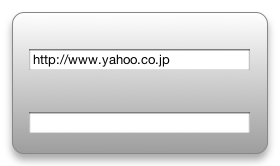
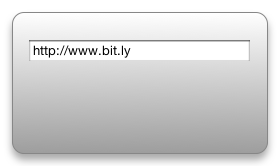
some fixes (JP: 少し修正)

Changed region(s): [[0.0857, 0.241, 0.9143, 0.4217], [0.0857, 0.6627, 0.9143, 0.8133]]

diff --git a/bitly_converter.dcproj/project.wdgt/main.html b/bitly_converter.dcproj/project.wdgt/main.html
@@ -19,9 +19,11 @@
         <img id="frontImg" src="Images/front.png" alt="" apple-locked="true" apple-part="com.apple.Dashcode.part.frontimage" apple-style="image-theme: 1; image-shape: 3; image-opacity: 1.00; image-top-color: 1.0000,1.0000,1.0000; image-bottom-color: 0.6154,0.6154,0.6154; image-radius: 12,12,12,12; image-border: 1; image-border-color: 0.5294,0.5294,0.5294; image-border-width: 1; shine-strength: 0.9; shine-alpha-level: 0.67; shine-height: 0.50; glass-arc-height: 0.06; shadow-include-shadow: 1; shadow-blur: 9.00; shadow-offset: -1.00,-6.00; shadow-color: 0.0000,0.0000,0.0000,0.3333;">
         <div class="apple-no-children" id="info" apple-part="com.apple.Dashcode.part.infobutton" apple-default-image-visibility="hidden"></div>
         <div apple-part="com.apple.Dashcode.part.text" class="apple-text apple-no-children" id="helloText" apple-group="text" apple-default-image-visibility="hidden" apple-style="part-height-dependent: true;"></div>
-        <input type="text" name="" value="http://www.yahoo.co.jp" class="apple-textfield apple-no-children" apple-part="com.apple.Dashcode.part.textfield" id="intxt">
-        <input type="text" name="" value="" class="apple-textfield apple-no-children" apple-part="com.apple.Dashcode.part.textfield" id="outtxt">
+        <input type="text" name="" value="http://www.bit.ly" class="apple-textfield apple-no-children" apple-part="com.apple.Dashcode.part.textfield" id="intxt">
         <div apple-part="com.apple.Dashcode.part.glassbutton" class="apple-no-children" id="glassbutton"></div>
+        <div apple-part="com.apple.Dashcode.part.glassbutton" class="apple-no-children" id="clearbtn"></div>
+        <div apple-part="com.apple.Dashcode.part.glassbutton" class="apple-no-children" id="copybtn"></div>
+        <div apple-part="com.apple.Dashcode.part.text" class="apple-text apple-no-children" apple-default-image-visibility="hidden" apple-text-overflow="ellipsis" id="outtxt" apple-style="part-width-dependent: true;part-height-dependent: true;"></div>
     </div>
     <div id="back">
         <img id="backImg" src="Images/back.png" alt="" apple-locked="true" apple-part="com.apple.Dashcode.part.backimage" apple-style=" image-radius: 12,12,12,12; image-border: 1; image-border-color: 0.1500,0.1500,0.1500; image-border-width: 3; shadow-include-shadow: 1; shadow-blur: 9.00; shadow-offset: -1.00,-6.00; shadow-color: 0.0000,0.0000,0.0000,0.3333;">

diff --git a/bitly_converter.dcproj/project.wdgt/main.css b/bitly_converter.dcproj/project.wdgt/main.css
@@ -14,8 +14,8 @@ body {
     top: 0px;
     left: 0px;
     right: 0px;
-    width: auto;
     bottom: 0px;
+    width: auto;
     height: auto;
 }
 
@@ -37,8 +37,8 @@ body {
     top: 0px;
     left: 0px;
     right: 0px;
-    width: auto;
     bottom: 0px;
+    width: auto;
     height: auto;
 }
 
@@ -55,8 +55,8 @@ body {
     color: black;
     font-family: HelveticaNeue-Bold;
     font-size: 11pt;
-    top: 23px;
     width: 130px;
+    top: 17px;
     right: 121px;
     margin-left: auto;
     left: 29px;
@@ -69,8 +69,8 @@ body {
     right: auto;
     bottom: auto;
     margin-top: 0px;
-    top: 78px;
     left: 112px;
+    top: 63px;
 }
 
 #intxt {
@@ -79,18 +79,8 @@ body {
     font-family: HelveticaNeue;
     font-size: 10pt;
     width: 215px;
-    top: 47px;
     left: 29px;
-}
-
-#outtxt {
-    position: absolute;
-    color: black;
-    font-family: HelveticaNeue;
-    font-size: 10pt;
-    left: 29px;
-    width: 215px;
-    top: 110px;
+    top: 38px;
 }
 
 #credit_texxt {
@@ -107,4 +97,36 @@ body {
     bottom: 60px;
     height: auto;
     color: rgb(255, 255, 255);
+}
+
+#copybtn {
+    position: absolute;
+    right: auto;
+    bottom: auto;
+    margin-top: 0px;
+    left: 112px;
+    top: 117px;
+}
+
+#outtxt {
+    color: black;
+    font-family: HelveticaNeue;
+    font-size: 10pt;
+    text-overflow: ellipsis;
+    overflow: hidden;
+    position: absolute;
+    margin-top: 0px;
+    left: 29px;
+    top: 94px;
+    width: auto;
+    height: auto;
+}
+
+#clearbtn {
+    position: absolute;
+    right: auto;
+    bottom: auto;
+    margin-top: 0px;
+    top: 63px;
+    left: 183px;
 }

diff --git a/bitly_converter.wdgt/main.css b/bitly_converter.wdgt/main.css
@@ -14,8 +14,8 @@ body {
     top: 0px;
     left: 0px;
     right: 0px;
-    width: auto;
     bottom: 0px;
+    width: auto;
     height: auto;
 }
 
@@ -37,8 +37,8 @@ body {
     top: 0px;
     left: 0px;
     right: 0px;
-    width: auto;
     bottom: 0px;
+    width: auto;
     height: auto;
 }
 
@@ -55,8 +55,8 @@ body {
     color: black;
     font-family: HelveticaNeue-Bold;
     font-size: 11pt;
-    top: 23px;
     width: 130px;
+    top: 17px;
     right: 121px;
     margin-left: auto;
     left: 29px;
@@ -69,8 +69,8 @@ body {
     right: auto;
     bottom: auto;
     margin-top: 0px;
-    top: 78px;
     left: 112px;
+    top: 63px;
 }
 
 #intxt {
@@ -79,18 +79,8 @@ body {
     font-family: HelveticaNeue;
     font-size: 10pt;
     width: 215px;
-    top: 47px;
     left: 29px;
-}
-
-#outtxt {
-    position: absolute;
-    color: black;
-    font-family: HelveticaNeue;
-    font-size: 10pt;
-    left: 29px;
-    width: 215px;
-    top: 110px;
+    top: 38px;
 }
 
 #credit_texxt {
@@ -107,4 +97,36 @@ body {
     bottom: 60px;
     height: auto;
     color: rgb(255, 255, 255);
+}
+
+#copybtn {
+    position: absolute;
+    right: auto;
+    bottom: auto;
+    margin-top: 0px;
+    left: 112px;
+    top: 117px;
+}
+
+#outtxt {
+    color: black;
+    font-family: HelveticaNeue;
+    font-size: 10pt;
+    text-overflow: ellipsis;
+    overflow: hidden;
+    position: absolute;
+    margin-top: 0px;
+    left: 29px;
+    top: 94px;
+    width: auto;
+    height: auto;
+}
+
+#clearbtn {
+    position: absolute;
+    right: auto;
+    bottom: auto;
+    margin-top: 0px;
+    top: 63px;
+    left: 183px;
 }

diff --git a/bitly_converter.dcproj/project.wdgt/Parts/setup.js b/bitly_converter.dcproj/project.wdgt/Parts/setup.js
@@ -5,9 +5,12 @@
  code generator otherwise the changes will be lost.
  */
 var dashcodePartSpecs = {
+    "clearbtn": { "creationFunction": "CreateGlassButton", "onclick": "cleartxt", "text": "clear" },
+    "copybtn": { "creationFunction": "CreateGlassButton", "onclick": "copy", "text": "Copy" },
     "credit_texxt": { "creationFunction": "CreateText", "text": "credit" },
     "done": { "creationFunction": "CreateGlassButton", "onclick": "showFront", "text": "完了" },
     "glassbutton": { "creationFunction": "CreateGlassButton", "onclick": "convert", "text": "convert" },
     "helloText": { "creationFunction": "CreateText", "text": "title_text" },
-    "info": { "backgroundStyle": "black", "creationFunction": "CreateInfoButton", "foregroundStyle": "white", "frontID": "front", "onclick": "showBack" }
+    "info": { "backgroundStyle": "black", "creationFunction": "CreateInfoButton", "foregroundStyle": "white", "frontID": "front", "onclick": "showBack" },
+    "outtxt": { "creationFunction": "CreateText", "text": "outtxt_text" }
 };

diff --git a/bitly_converter.wdgt/Parts/setup.js b/bitly_converter.wdgt/Parts/setup.js
@@ -5,9 +5,12 @@
  code generator otherwise the changes will be lost.
  */
 var dashcodePartSpecs = {
+    "clearbtn": { "creationFunction": "CreateGlassButton", "onclick": "cleartxt", "text": "clear" },
+    "copybtn": { "creationFunction": "CreateGlassButton", "onclick": "copy", "text": "Copy" },
     "credit_texxt": { "creationFunction": "CreateText", "text": "credit" },
     "done": { "creationFunction": "CreateGlassButton", "onclick": "showFront", "text": "完了" },
     "glassbutton": { "creationFunction": "CreateGlassButton", "onclick": "convert", "text": "convert" },
     "helloText": { "creationFunction": "CreateText", "text": "title_text" },
-    "info": { "backgroundStyle": "black", "creationFunction": "CreateInfoButton", "foregroundStyle": "white", "frontID": "front", "onclick": "showBack" }
+    "info": { "backgroundStyle": "black", "creationFunction": "CreateInfoButton", "foregroundStyle": "white", "frontID": "front", "onclick": "showBack" },
+    "outtxt": { "creationFunction": "CreateText", "text": "outtxt_text" }
 };

diff --git a/bitly_converter.dcproj/project.wdgt/main.js b/bitly_converter.dcproj/project.wdgt/main.js
@@ -11,6 +11,7 @@
 function load()
 {
     dashcode.setupParts();
+    outtxt.innerText = '';
 }
 
 //
@@ -125,10 +126,10 @@ function convert(event)
 function myOnLoad(req)
 {
     var resUrl = '';
+    var outeku;
     if(req.status == 200)
     {
         var obj = eval('(' + req.responseText + ')');
-        alert(obj);
         for(var item in obj.results)
         {
             if(!obj.results[item].errorCode){
@@ -137,6 +138,20 @@ function myOnLoad(req)
                 resUrl = 'error!!';
             }
         }
-        outtxt.value = resUrl;
+        outeku = outtxt;
+        outtxt.innerText = resUrl;
     }
+}
+
+function copy(event)
+{
+    if (window.widget){
+      widget.system("/bin/echo -n '"+outtxt.innerText+"' | /usr/bin/pbcopy", null);
+    }
+}
+
+
+function cleartxt(event)
+{
+    intxt.value = '';
 }

diff --git a/bitly_converter.wdgt/main.js b/bitly_converter.wdgt/main.js
@@ -11,6 +11,7 @@
 function load()
 {
     dashcode.setupParts();
+    outtxt.innerText = '';
 }
 
 //
@@ -125,10 +126,10 @@ function convert(event)
 function myOnLoad(req)
 {
     var resUrl = '';
+    var outeku;
     if(req.status == 200)
     {
         var obj = eval('(' + req.responseText + ')');
-        alert(obj);
         for(var item in obj.results)
         {
             if(!obj.results[item].errorCode){
@@ -137,6 +138,20 @@ function myOnLoad(req)
                 resUrl = 'error!!';
             }
         }
-        outtxt.value = resUrl;
+        outeku = outtxt;
+        outtxt.innerText = resUrl;
     }
+}
+
+function copy(event)
+{
+    if (window.widget){
+      widget.system("/bin/echo -n '"+outtxt.innerText+"' | /usr/bin/pbcopy", null);
+    }
+}
+
+
+function cleartxt(event)
+{
+    intxt.value = '';
 }

diff --git a/bitly_converter.wdgt/main.html b/bitly_converter.wdgt/main.html
@@ -19,9 +19,11 @@
         <img id="frontImg" src="Images/front.png" alt="">
         <div id="info"></div>
         <div id="helloText"></div>
-        <input type="text" name="" value="http://www.yahoo.co.jp" id="intxt">
-        <input type="text" name="" value="" id="outtxt">
+        <input type="text" name="" value="http://www.bit.ly" id="intxt">
         <div id="glassbutton"></div>
+        <div id="clearbtn"></div>
+        <div id="copybtn"></div>
+        <div id="outtxt"></div>
     </div>
     <div id="back">
         <img id="backImg" src="Images/back.png" alt="">

diff --git a/bitly_converter.dcproj/project.wdgt/ja.lproj/localizedStrings.js b/bitly_converter.dcproj/project.wdgt/ja.lproj/localizedStrings.js
@@ -7,8 +7,11 @@
 */
 
 var localizedStrings = {
+    "clear": "クリア",
     "convert": "↓変換",
+    "Copy": "コピー",
     "credit": "ver 1.0 Masato Yamaguchi",
+    "outtxt_text": "null",
     "title_text": "bit.ly コンバータ",
     "完了": "完了"
 };

diff --git a/bitly_converter.wdgt/ja.lproj/localizedStrings.js b/bitly_converter.wdgt/ja.lproj/localizedStrings.js
@@ -7,8 +7,11 @@
 */
 
 var localizedStrings = {
+    "clear": "クリア",
     "convert": "↓変換",
+    "Copy": "コピー",
     "credit": "ver 1.0 Masato Yamaguchi",
+    "outtxt_text": "null",
     "title_text": "bit.ly コンバータ",
     "完了": "完了"
 };

diff --git a/bitly_converter.dcproj/project.wdgt/en.lproj/localizedStrings.js b/bitly_converter.dcproj/project.wdgt/en.lproj/localizedStrings.js
@@ -7,8 +7,11 @@
 */
 
 var localizedStrings = {
+    "clear": "clear",
     "convert": "convert",
+    "Copy": "Copy",
     "credit": "ver 1.0 Masato Yamaguchi",
+    "outtxt_text": "null",
     "title_text": "bit.ly converter",
     "完了": "Done"
 };

diff --git a/bitly_converter.wdgt/en.lproj/localizedStrings.js b/bitly_converter.wdgt/en.lproj/localizedStrings.js
@@ -7,8 +7,11 @@
 */
 
 var localizedStrings = {
+    "clear": "clear",
     "convert": "convert",
+    "Copy": "Copy",
     "credit": "ver 1.0 Masato Yamaguchi",
+    "outtxt_text": "null",
     "title_text": "bit.ly converter",
     "完了": "Done"
 };
